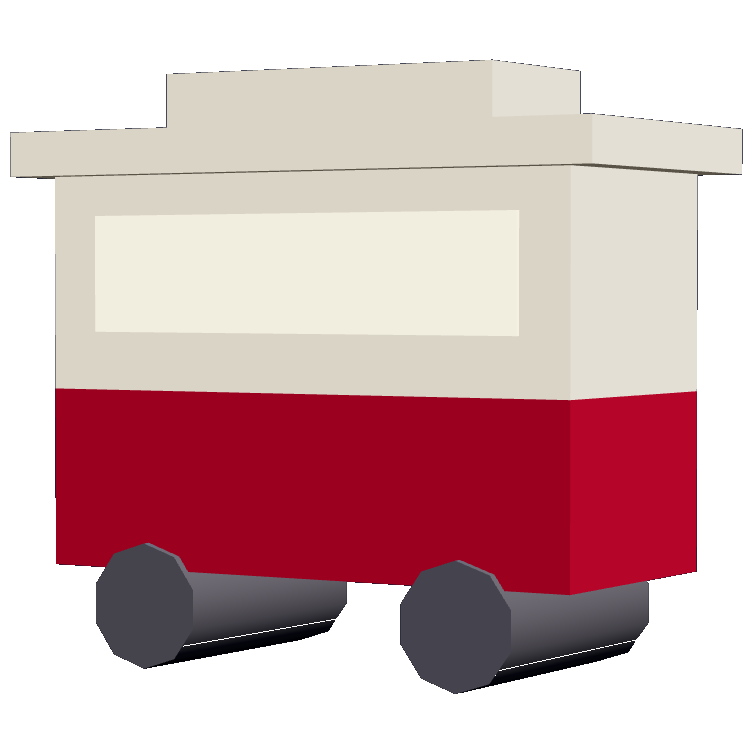
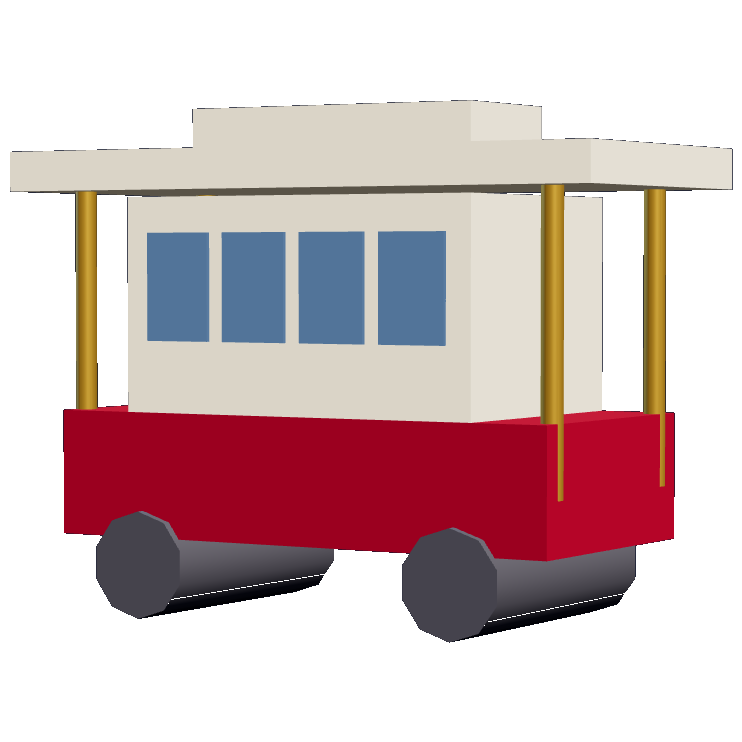
Make the London and San Francisco souvenirs recognisable (device feedback)
London is now a K6 phone box: domed roof, white band, glazing bars.
San Francisco is a cable car: cream cabin, window row, maroon skirt,
overhanging roof, brass poles.

diff --git a/src/cities/souvenirs.js b/src/cities/souvenirs.js
@@ -40,58 +40,101 @@ export function makeCollectible(theme) {
       g.add(band);
     }
   } else if (theme.id === 'london') {
+    // The K6 phone box, as it is recognised at a glance: a red box with a
+    // DOMED roof, a white TELEPHONE band under the dome, and small panes of
+    // glass in a grid of red bars. The first version had none of those — a
+    // red block with a glowing panel — and players could not tell what it was.
     const red = new THREE.MeshStandardMaterial({
       color: 0xd6182e, roughness: 0.3, emissive: 0x7a0a16, emissiveIntensity: 0.45,
     });
-    const body = new THREE.Mesh(new THREE.BoxGeometry(0.36, 0.62, 0.36), red);
+    const glow = new THREE.MeshStandardMaterial({
+      color: 0xfff2cc, roughness: 0.3, emissive: 0xffe1a0, emissiveIntensity: 0.8,
+    });
+    const white = new THREE.MeshStandardMaterial({
+      color: 0xffffff, roughness: 0.4, emissive: 0xcccccc, emissiveIntensity: 0.5,
+    });
+    const body = new THREE.Mesh(new THREE.BoxGeometry(0.34, 0.6, 0.34), red);
     g.add(body);
-    const cap = new THREE.Mesh(new THREE.BoxGeometry(0.42, 0.09, 0.42), red);
-    cap.position.y = 0.35;
+    // glazing: lit panes behind a red grid, on the front and both sides
+    for (const [x, z, ry] of [[0, 0.172, 0], [0.172, 0, Math.PI / 2], [-0.172, 0, Math.PI / 2]]) {
+      const pane = new THREE.Mesh(new THREE.PlaneGeometry(0.24, 0.36), glow);
+      pane.position.set(x, -0.02, z);
+      pane.rotation.y = ry;
+      if (x < 0) pane.rotation.y = -Math.PI / 2;
+      g.add(pane);
+      for (const gx of [-0.04, 0.04]) {                     // vertical bars
+        const bar = new THREE.Mesh(new THREE.BoxGeometry(0.018, 0.36, 0.01), red);
+        bar.position.set(x + (z ? gx : 0), -0.02, z + (x ? gx * Math.sign(x) : 0));
+        bar.rotation.y = pane.rotation.y;
+        g.add(bar);
+      }
+      for (const gy of [-0.1, 0.02, 0.14]) {                // horizontal bars
+        const bar = new THREE.Mesh(new THREE.BoxGeometry(0.24, 0.018, 0.01), red);
+        bar.position.set(x, gy - 0.02, z);
+        bar.rotation.y = pane.rotation.y;
+        g.add(bar);
+      }
+    }
+    // TELEPHONE band: white strip on every face, just under the roof
+    const band = new THREE.Mesh(new THREE.BoxGeometry(0.36, 0.06, 0.36), white);
+    band.position.y = 0.26;
+    g.add(band);
+    const cap = new THREE.Mesh(new THREE.BoxGeometry(0.4, 0.06, 0.4), red);
+    cap.position.y = 0.32;
     g.add(cap);
-    const dome = new THREE.Mesh(new THREE.SphereGeometry(0.2, 10, 6, 0, Math.PI * 2, 0, Math.PI / 2), red);
-    dome.scale.y = 0.5;
-    dome.position.y = 0.39;
+    // the dome: a shallow, wide curve, not a hemisphere
+    const dome = new THREE.Mesh(new THREE.SphereGeometry(0.24, 14, 8, 0, Math.PI * 2, 0, Math.PI / 2), red);
+    dome.scale.set(1, 0.42, 1);
+    dome.position.y = 0.35;
     g.add(dome);
-    const win = new THREE.Mesh(new THREE.BoxGeometry(0.24, 0.4, 0.38),
-      new THREE.MeshStandardMaterial({
-        color: 0xfff2cc, roughness: 0.3, emissive: 0xffe1a0, emissiveIntensity: 0.9,
-      }));
-    win.position.y = -0.04;
-    g.add(win);
+    const crown = new THREE.Mesh(new THREE.SphereGeometry(0.035, 8, 6), white);
+    crown.position.y = 0.46;
+    g.add(crown);
   } else if (theme.id === 'sf') {
-    // a little cable car: maroon lower body, cream upper, clerestory roof
+    // A Powell Street cable car as it reads from the pavement: a long cream
+    // car with a ROW of windows, a maroon skirt, a roof that overhangs both
+    // ends, and open end platforms with their grab poles. The first version
+    // was a two-colour box, which read as a van.
     const cream = new THREE.MeshStandardMaterial({
       color: 0xf2e8d0, roughness: 0.4, emissive: 0x8a8060, emissiveIntensity: 0.3,
     });
     const maroon = new THREE.MeshStandardMaterial({
       color: 0x9a2230, roughness: 0.35, emissive: 0x4a0a12, emissiveIntensity: 0.45,
     });
-    const lower = new THREE.Mesh(new THREE.BoxGeometry(0.66, 0.2, 0.3), maroon);
-    lower.position.y = -0.12;
-    g.add(lower);
-    const upper = new THREE.Mesh(new THREE.BoxGeometry(0.66, 0.24, 0.3), cream);
-    upper.position.y = 0.1;
-    g.add(upper);
-    const win = new THREE.Mesh(new THREE.BoxGeometry(0.54, 0.13, 0.31),
-      new THREE.MeshStandardMaterial({
-        color: 0xfff2cc, roughness: 0.3, emissive: 0xffe1a0, emissiveIntensity: 0.9,
-      }));
-    win.position.y = 0.11;
-    g.add(win);
-    const roof = new THREE.Mesh(new THREE.BoxGeometry(0.74, 0.05, 0.36), cream);
-    roof.position.y = 0.245;
+    const glass = new THREE.MeshStandardMaterial({
+      color: 0x33465e, roughness: 0.2, emissive: 0x6a8ab0, emissiveIntensity: 0.35,
+    });
+    const brass = new THREE.MeshStandardMaterial({ color: 0xd8a838, roughness: 0.3, metalness: 0.6 });
+    const skirt = new THREE.Mesh(new THREE.BoxGeometry(0.62, 0.14, 0.3), maroon);
+    skirt.position.y = -0.14;
+    g.add(skirt);
+    const cabin = new THREE.Mesh(new THREE.BoxGeometry(0.44, 0.24, 0.3), cream);
+    cabin.position.y = 0.05;
+    g.add(cabin);
+    for (let i = 0; i < 4; i++) {                             // the row of windows
+      const w = new THREE.Mesh(new THREE.BoxGeometry(0.08, 0.12, 0.31), glass);
+      w.position.set(-0.15 + i * 0.1, 0.07, 0);
+      g.add(w);
+    }
+    const roof = new THREE.Mesh(new THREE.BoxGeometry(0.74, 0.045, 0.34), cream);
+    roof.position.y = 0.2;
     g.add(roof);
-    const clere = new THREE.Mesh(new THREE.BoxGeometry(0.42, 0.07, 0.2), cream);
-    clere.position.y = 0.3;
-    g.add(clere);
-    // Light enough to survive the souvenir-icon capture: the icon is keyed
-    // against a 0x141a30 backdrop, and a near-black wheel keys out with it.
+    const lantern = new THREE.Mesh(new THREE.BoxGeometry(0.36, 0.05, 0.16), cream);
+    lantern.position.y = 0.245;
+    g.add(lantern);
+    for (const ex of [-0.3, 0.3]) {                            // open ends: poles
+      for (const ez of [-0.12, 0.12]) {
+        const pole = new THREE.Mesh(new THREE.CylinderGeometry(0.012, 0.012, 0.34, 6), brass);
+        pole.position.set(ex, 0.02, ez);
+        g.add(pole);
+      }
+    }
     const wheelMat = new THREE.MeshStandardMaterial({ color: 0x55555f, roughness: 0.6 });
     for (const wx of [-0.2, 0.2]) {
-      const w = new THREE.Mesh(new THREE.CylinderGeometry(0.07, 0.07, 0.32, 10), wheelMat);
-      w.rotation.x = Math.PI / 2;
-      w.position.set(wx, -0.26, 0);
-      g.add(w);
+      const wh = new THREE.Mesh(new THREE.CylinderGeometry(0.06, 0.06, 0.32, 10), wheelMat);
+      wh.rotation.x = Math.PI / 2;
+      wh.position.set(wx, -0.24, 0);
+      g.add(wh);
     }
   } else {
     const marble = new THREE.MeshStandardMaterial({
